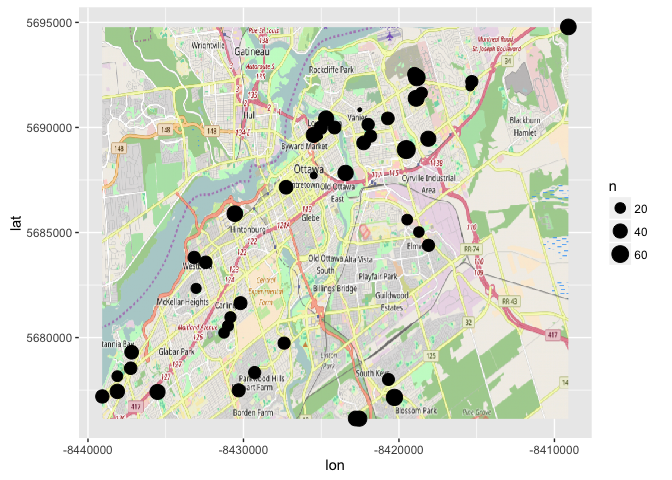
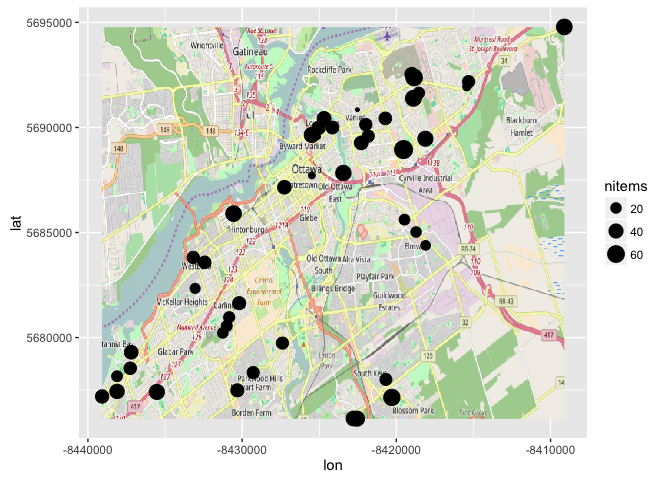
update red

diff --git a/README.md b/README.md
@@ -19,20 +19,25 @@ Load in data
 mt <- read.csv('data/monthly_totals.csv', stringsAsFactors = FALSE)
 mt$posix <- lubridate::dmy(mt$Date)
 mt$posix[is.na(mt$posix)] <- lubridate::mdy(mt$Date[is.na(mt$posix)])
-mt$Date <- as.character(mt$posix)
+mt$month <- paste(lubridate::year(mt$posix),sprintf('%0.2d', lubridate::month(mt$posix)), sep="-")
 mt$Items <- tolower(mt$Items)
 mt$Supplied[mt$Supplied != "Y"] <- "N"
+mt$Supplied <- factor(mt$Supplied, levels=c("Y", "N"))
 mtgeo <- read.csv('data/monthly_totals_postals.csv')
+
+deliveries <- mt %>% group_by(posix, Delivery.ID) %>% 
+  summarise(Geo=unique(Geo), nitems=length(Items), 
+            nyes=sum(Supplied=="Y"), nno=sum(Supplied=="N")) %>% 
+  merge(mtgeo, by='Geo', all.x=T) %>% 
+  select(posix, Delivery.ID, nitems, nyes, nno, postal, lon, lat)
 ```
 
 Plot geo
 
 ``` r
-ggplot(mtgeo, aes(lon, lat)) + geom_osm() + geom_spatial(mapping=aes(size=n)) +
+ggplot(deliveries, aes(lon, lat)) + geom_osm() + geom_spatial(mapping=aes(size=nitems)) +
   scale_size()
 ```
-
-    ## Zoom: 12
 
 ![](README_files/figure-markdown_github/unnamed-chunk-3-1.png)<!-- -->
 
@@ -46,121 +51,51 @@ mtsum <- mt %>% group_by(Items) %>%
 mtsumtot <- rbind(mtsum[order(mtsum$Total, decreasing = T),], data.frame(Items="Totals", SuppliedY=sum(mtsum$SuppliedY),
                                  SuppliedN=sum(mtsum$SuppliedN),
                                  Total=sum(mtsum$Total)))
-knitr::kable(mtsumtot)
+# knitr::kable(mtsumtot)
 ```
-
-| Items             |  SuppliedY|  SuppliedN|  Total|
-|:------------------|----------:|----------:|------:|
-| chair             |        125|         86|    211|
-| lamp              |          9|        148|    157|
-| picture frame     |          2|        138|    140|
-| dresser           |         70|         57|    127|
-| night stand       |         35|         36|     71|
-| mirror            |          2|         62|     64|
-| rug               |          2|         59|     61|
-| desk              |         34|         24|     58|
-| sofa              |         31|         21|     52|
-| bookcase          |         17|         34|     51|
-| coffee table      |         31|         20|     51|
-| desk chair        |         30|         19|     49|
-| single frame      |         33|         13|     46|
-| single mattress   |         32|         13|     45|
-| arm chair         |         24|         19|     43|
-| single box        |         30|         12|     42|
-| dining table      |         19|         20|     39|
-| tv stand          |         17|         18|     35|
-| garbage can       |          1|         31|     32|
-| side table        |         12|         19|     31|
-| loveseat          |         19|         11|     30|
-| shoe rack         |          1|         28|     29|
-| queen frame       |         16|         12|     28|
-| tv                |         13|         15|     28|
-| double frame      |         16|         11|     27|
-| double mattress   |         15|         12|     27|
-| double box        |         14|         11|     25|
-| fan               |          1|         24|     25|
-| queen box         |         13|         12|     25|
-| queen mattress    |         13|         11|     24|
-| patio set         |         18|          5|     23|
-| mat               |          0|         21|     21|
-| mop and pail      |          1|         20|     21|
-| vacuum            |          1|         20|     21|
-| bike woman        |         17|          3|     20|
-| buffet/hutch      |          9|          9|     18|
-| hamper            |          1|         16|     17|
-| microwave         |          9|          8|     17|
-| bike              |          0|         16|     16|
-| bike man          |         13|          3|     16|
-| iron              |          1|         15|     16|
-| helmet            |          7|          7|     14|
-| kitchen table     |          7|          5|     12|
-| bike child        |          7|          4|     11|
-| bathroom shelf    |          0|          9|      9|
-| microwave stand   |          5|          3|      8|
-| car seat          |          0|          7|      7|
-| dvd player        |          3|          4|      7|
-| ironing board     |          1|          6|      7|
-| tv unit/wall unit |          6|          1|      7|
-| broom             |          0|          6|      6|
-| high chair        |          0|          6|      6|
-| storage shelf     |          4|          2|      6|
-| air conditioner   |          0|          5|      5|
-| baby gate         |          0|          5|      5|
-| change table      |          1|          4|      5|
-| stool             |          5|          0|      5|
-| toaster oven      |          3|          2|      5|
-| crib              |          1|          3|      4|
-| potty seat        |          0|          4|      4|
-| rocking chair     |          1|          3|      4|
-| shelf             |          2|          2|      4|
-| stroller          |          0|          4|      4|
-| child bike        |          3|          0|      3|
-| coat rack         |          0|          3|      3|
-| credenza          |          0|          3|      3|
-| broom             |          1|          1|      2|
-| bunk bed          |          1|          1|      2|
-| humidifier        |          0|          2|      2|
-| longdresser       |          2|          0|      2|
-| play pen          |          0|          2|      2|
-| step stool        |          0|          2|      2|
-| armchair          |          1|          0|      1|
-| baby bath         |          0|          1|      1|
-| basinette         |          0|          1|      1|
-| bike woman        |          0|          1|      1|
-| coat tree         |          0|          1|      1|
-| dehumidifier      |          0|          1|      1|
-| double matress    |          0|          1|      1|
-| drapes            |          0|          1|      1|
-| duble frame       |          1|          0|      1|
-| hair dryer        |          0|          1|      1|
-| king box          |          0|          1|      1|
-| king frame        |          0|          1|      1|
-| king mattress     |          0|          1|      1|
-| man bike          |          0|          1|      1|
-| recliner          |          0|          1|      1|
-| scale             |          0|          1|      1|
-| telephone         |          0|          1|      1|
-| toddler bed       |          0|          1|      1|
-| tv                |          0|          1|      1|
-| Totals            |        809|       1255|   2064|
 
 Graphical summary by items
 
 ``` r
 # plot by order of item frequency
-mtsummelt <- mt %>% select(Items, Supplied)
+mtsummelt <- mt %>% select(Items, Supplied, month)
 mtsummelt$Items <- factor(mtsummelt$Items, levels=mtsum$Items[order(mtsum$Total)])
-ggplot(mtsummelt, aes(x=factor(Items), fill=Supplied)) + coord_flip() + stat_count()
+ggplot(mtsummelt, aes(x=Items, fill=Supplied)) + coord_flip() + stat_count()
 ```
 
 ![](README_files/figure-markdown_github/unnamed-chunk-5-1.png)<!-- -->
 
 ``` r
-# plot by order of proportion
-mtsummelt$Items <- factor(mtsummelt$Items, levels=mtsum$Items[order(mtsum$SuppliedY/mtsum$Total)])
-ggplot(mtsummelt, aes(x=factor(Items), fill=Supplied)) + coord_flip() + stat_count(position='fill')
+# plot proportion
+ggplot(mtsummelt, aes(x=Items, fill=Supplied)) + coord_flip() + stat_count(position='fill')
 ```
 
 ![](README_files/figure-markdown_github/unnamed-chunk-5-2.png)<!-- -->
 
+``` r
+# plot by order of proportion
+mtsummelt$Items <- factor(mtsummelt$Items, levels=mtsum$Items[order(mtsum$SuppliedY/mtsum$Total)])
+ggplot(mtsummelt, aes(x=Items, fill=Supplied)) + coord_flip() + stat_count(position='fill')
+```
+
+![](README_files/figure-markdown_github/unnamed-chunk-5-3.png)<!-- -->
+
+``` r
+mtsummelt$Items <- factor(mtsummelt$Items, levels=mtsum$Items[order(mtsum$Total)])
+ggplot(mt, aes(x=Items, fill=Supplied)) + coord_flip() + stat_count() +
+  facet_wrap(~month) + theme_grey(8)
+```
+
+![](README_files/figure-markdown_github/unnamed-chunk-6-1.png)<!-- -->
+
 Graphical summary by date
+
+``` r
+# plot deliveries over time
+deliverymelt <- deliveries %>% melt(id.vars=c("posix", "Delivery.ID", "nitems", "postal"),
+                                    measure.vars=c("nyes", "nno"), value.name="itemcount",
+                                    variable.name="Supplied")
+ggplot(deliverymelt, aes(x=posix, y=itemcount, fill=Supplied)) + geom_bar(stat='identity')
+```
+
+![](README_files/figure-markdown_github/unnamed-chunk-7-1.png)<!-- -->
